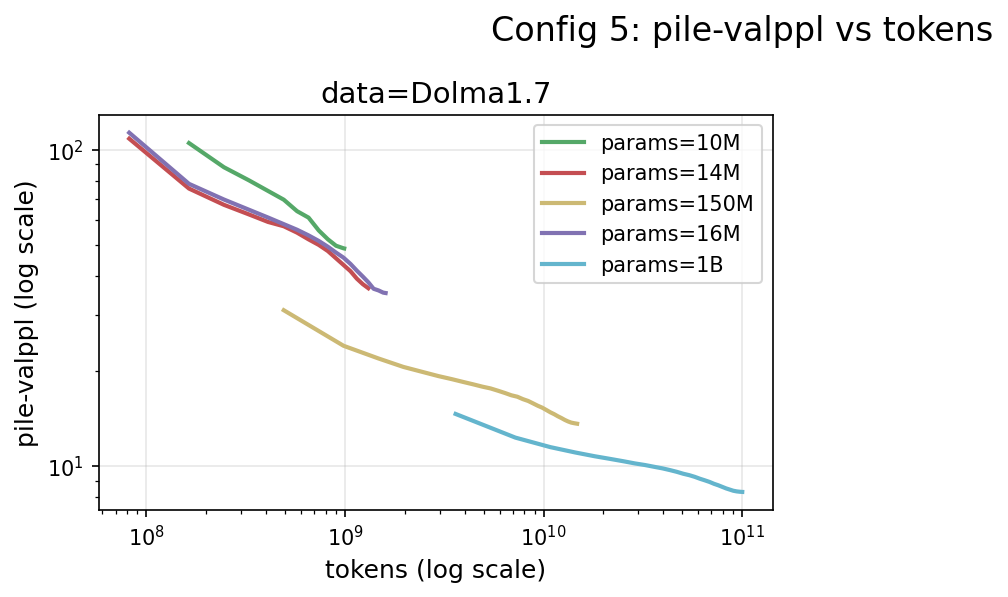
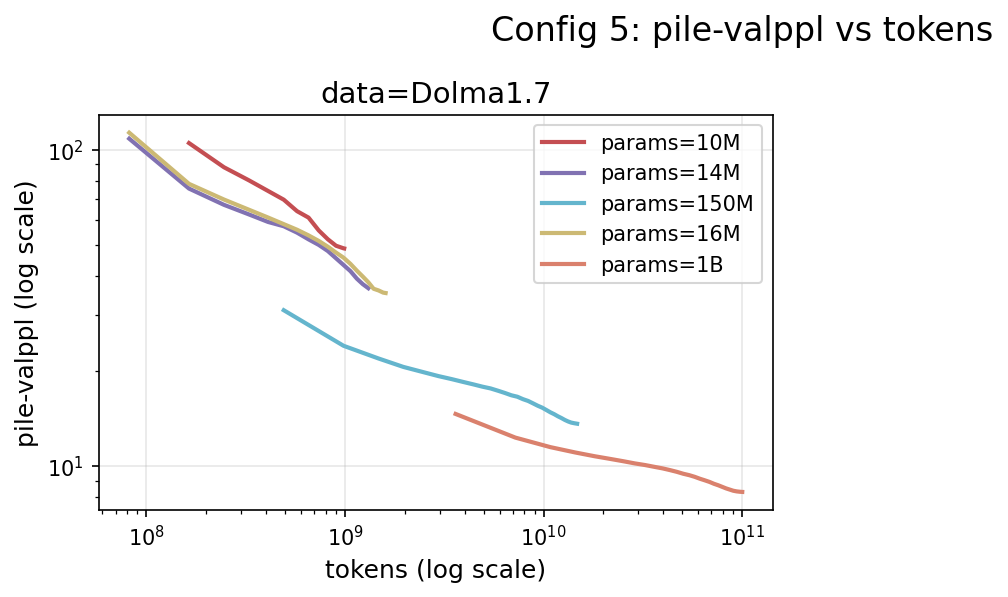
commit after fixing config 4 and adding config 5

diff --git a/src/datadec/plotting.py b/src/datadec/plotting.py
@@ -154,22 +154,26 @@ def plot_model_comparison(
     metrics: List[str],
     x_col: str = "tokens",
     line_col: str = "params",
+    style_col: Optional[str] = None,  # NEW: Optional line style encoding
+    subplot_col: str = "data",  # What creates subplots (when used)
     params_filter: Optional[List] = None,
-    data_filter: Optional[List] = None,
+    subplot_filter: Optional[List] = None,  # Filter for subplot values
     figsize: Optional[Tuple[int, int]] = None,
     log_scale: bool = True,
     **kwargs
 ) -> Tuple[plt.Figure, FigureManager]:
     """
-    Plot multiple metrics for model comparison.
+    Plot multiple metrics for model comparison, with each metric in its own subplot.
     
     Args:
         df: DataFrame containing the data
         metrics: List of metric columns to plot
         x_col: Column for x-axis
-        line_col: Column that creates different colored lines
+        line_col: Column that creates different colored lines (hue)
+        style_col: Optional column for line style encoding
+        subplot_col: Column that determines subplot filtering when used
         params_filter: Filter to specific param values
-        data_filter: Filter to specific data recipes
+        subplot_filter: Filter to specific values (e.g., data recipes)
         figsize: Figure size tuple
         log_scale: Use log/log scale for both x and y axes
         **kwargs: Additional arguments passed to dr_plotter.line()
@@ -177,14 +181,25 @@ def plot_model_comparison(
     Returns:
         Tuple of (figure, FigureManager)
     """
-    # Filter data
+    # Apply same filtering logic as plot_scaling_curves
     plot_df = df.copy()
     
+    # Apply filters based on column names, not parameter names
     if params_filter is not None:
-        plot_df = plot_df[plot_df[line_col].isin(params_filter)]
+        # params_filter should apply to whichever column contains "params" values
+        if "params" in line_col:
+            plot_df = plot_df[plot_df[line_col].isin(params_filter)]
+        elif style_col and "params" in style_col:
+            plot_df = plot_df[plot_df[style_col].isin(params_filter)]
+        elif "params" in subplot_col:
+            plot_df = plot_df[plot_df[subplot_col].isin(params_filter)]
     
-    if data_filter is not None:
-        plot_df = plot_df[plot_df["data"].isin(data_filter)]
+    if subplot_filter is not None:
+        # subplot_filter should apply to whichever column contains "data" values
+        if "data" in line_col:
+            plot_df = plot_df[plot_df[line_col].isin(subplot_filter)]
+        elif "data" in subplot_col:
+            plot_df = plot_df[plot_df[subplot_col].isin(subplot_filter)]
     
     # Calculate grid layout
     n_metrics = len(metrics)
@@ -204,14 +219,37 @@ def plot_model_comparison(
         row = i // ncols
         col = i % ncols
         
+        # Filter data for this specific metric (remove NaN values)
+        key_columns = [x_col, metric, line_col]
+        if style_col:
+            key_columns.append(style_col)
+        if subplot_col and subplot_col not in key_columns:
+            key_columns.append(subplot_col)
+        available_columns = [c for c in key_columns if c in plot_df.columns]
+        metric_data = plot_df[available_columns].dropna()
+        
+        if len(metric_data) == 0:
+            continue
+        
+        # Sort data by params column for consistent ordering (whether in line_col or style_col)
+        if style_col and "params" in style_col:
+            # If params is in style_col, sort by that
+            params_values = _sort_params_values(metric_data[style_col].unique())
+            metric_data = metric_data.set_index(style_col).loc[params_values].reset_index()
+        elif "params" in line_col:
+            # If params is in line_col, sort by that
+            line_values = _sort_params_values(metric_data[line_col].unique())
+            metric_data = metric_data.set_index(line_col).loc[line_values].reset_index()
+            
         # Use FigureManager's line method for color coordination
         fm.line(
             row=row,
             col=col,
-            data=plot_df,
+            data=metric_data,
             x=x_col,
             y=metric,
             hue=line_col,
+            style=style_col,
             title=metric,
             **kwargs
         )

diff --git a/scripts/test_plotting.py b/scripts/test_plotting.py
@@ -124,9 +124,10 @@ def main():
                 df,
                 metrics=available_metrics,
                 x_col="tokens",
-                line_col="params",
+                line_col="data",        # Data recipes as different colors (hue)
+                style_col="params",     # Model sizes as different line styles
                 params_filter=test_params,
-                data_filter=test_data
+                subplot_filter=test_data
             )
             fig4.savefig(plots_dir / "config4_multi_metric.png", dpi=150, bbox_inches="tight")
             print("✓ Saved config4_multi_metric.png")
